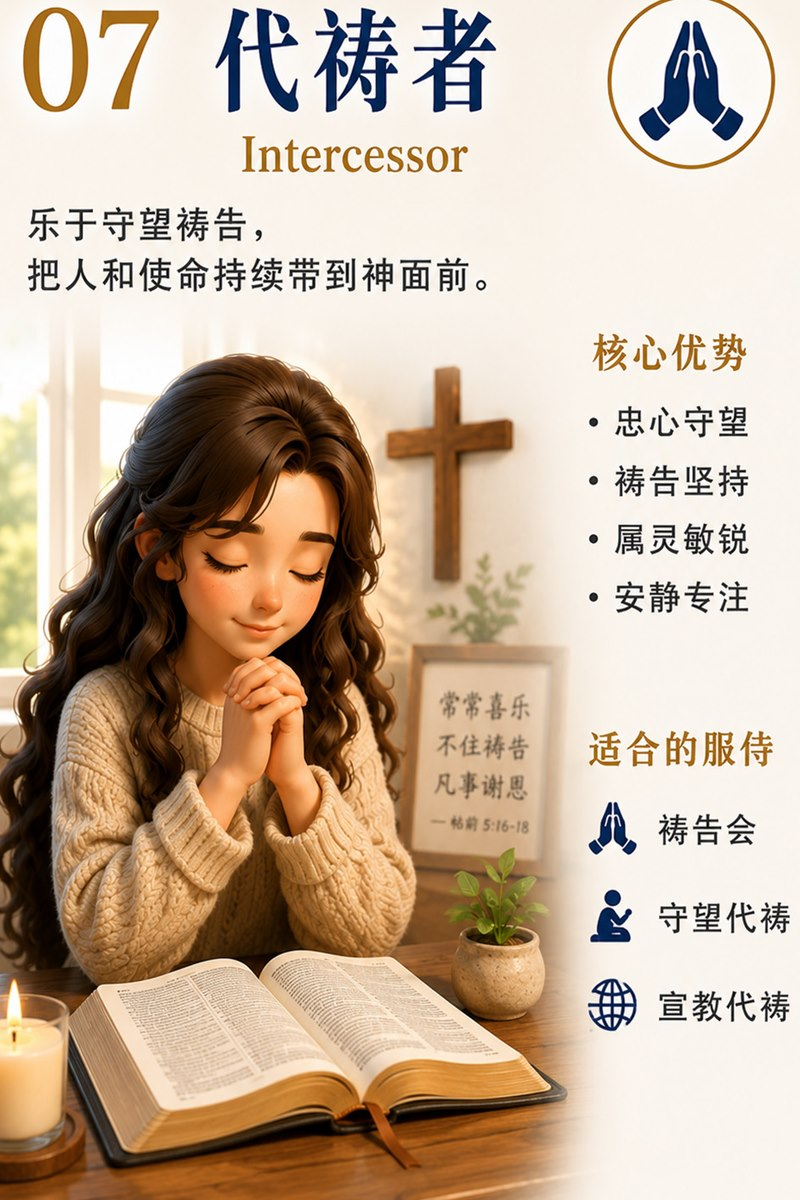
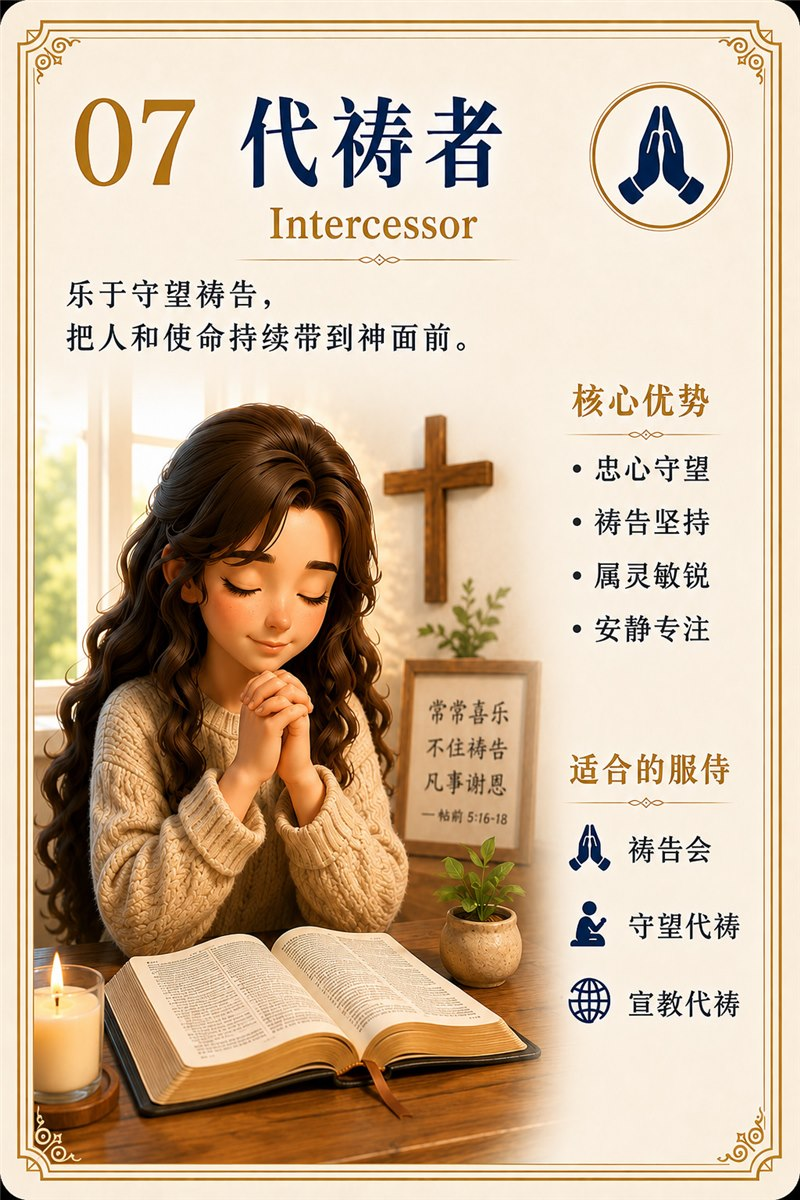
archetypes 卡图更新为新版设计，统一 800x1200（与 App 同步）

diff --git a/index.html b/index.html
@@ -83,9 +83,9 @@
 })();
 </script>
 <script>(function(){var l=document.createElement("link");l.rel="preload";l.as="image";l.href="assets/img/hero-"+(document.documentElement.dataset.theme==="night"?"night":"day")+".webp";document.head.appendChild(l);})();</script>
-<script src="assets/js/supabase-config.js?v=202608311422"></script>
+<script src="assets/js/supabase-config.js?v=202608311541"></script>
 <link rel="preconnect" href="https://fonts.googleapis.com"><link rel="preconnect" href="https://fonts.gstatic.com" crossorigin><link href="https://fonts.googleapis.com/css2?family=Noto+Serif+SC:wght@600;700;900&display=swap" rel="stylesheet">
-<link rel="stylesheet" href="assets/css/main.css?v=202608311422">
+<link rel="stylesheet" href="assets/css/main.css?v=202608311541">
 </head>
 <body>
 <a class="skip-link" href="#main" data-i18n="actions.skip">跳到主要内容</a>
@@ -1231,6 +1231,6 @@
 </div>
 
 <div class="toast" id="toast" role="status" aria-live="polite"></div>
-<script src="assets/js/main.js?v=202608311422"></script>
+<script src="assets/js/main.js?v=202608311541"></script>
 </body>
 </html>

diff --git a/giving.html b/giving.html
@@ -6,9 +6,9 @@
 <meta name="robots" content="noindex,nofollow">
 <title>与我们同工 | AMAS</title>
 <link rel="icon" href="assets/img/favicon.png">
-<script src="assets/js/supabase-config.js?v=202608311422"></script>
+<script src="assets/js/supabase-config.js?v=202608311541"></script>
 <link rel="preconnect" href="https://fonts.googleapis.com"><link rel="preconnect" href="https://fonts.gstatic.com" crossorigin><link href="https://fonts.googleapis.com/css2?family=Noto+Serif+SC:wght@600;700;900&display=swap" rel="stylesheet">
-<link rel="stylesheet" href="assets/css/main.css?v=202608311422">
+<link rel="stylesheet" href="assets/css/main.css?v=202608311541">
 <style>
   body{background:var(--bg,#f7f1e6)}
   .gv-wrap{max-width:760px;margin:0 auto;padding:34px 18px 70px}

diff --git a/admin.html b/admin.html
@@ -6,7 +6,7 @@
 <meta name="robots" content="noindex,nofollow">
 <title>AMAS 招生后台</title>
 <link rel="icon" href="assets/img/favicon.png">
-<script src="assets/js/supabase-config.js?v=202608311422"></script>
+<script src="assets/js/supabase-config.js?v=202608311541"></script>
 <script src="https://cdn.jsdelivr.net/npm/@supabase/supabase-js@2/dist/umd/supabase.min.js"></script>
 <style>
 *{box-sizing:border-box}

diff --git a/login.html b/login.html
@@ -287,7 +287,7 @@ body::before{
 </div>
 <div class="toast" id="toast"></div>
 
-<script src="assets/js/supabase-config.js?v=202608311422"></script>
+<script src="assets/js/supabase-config.js?v=202608311541"></script>
 <script>
 const $ = (s)=>document.querySelector(s);
 const $$ = (s)=>[...document.querySelectorAll(s)];
